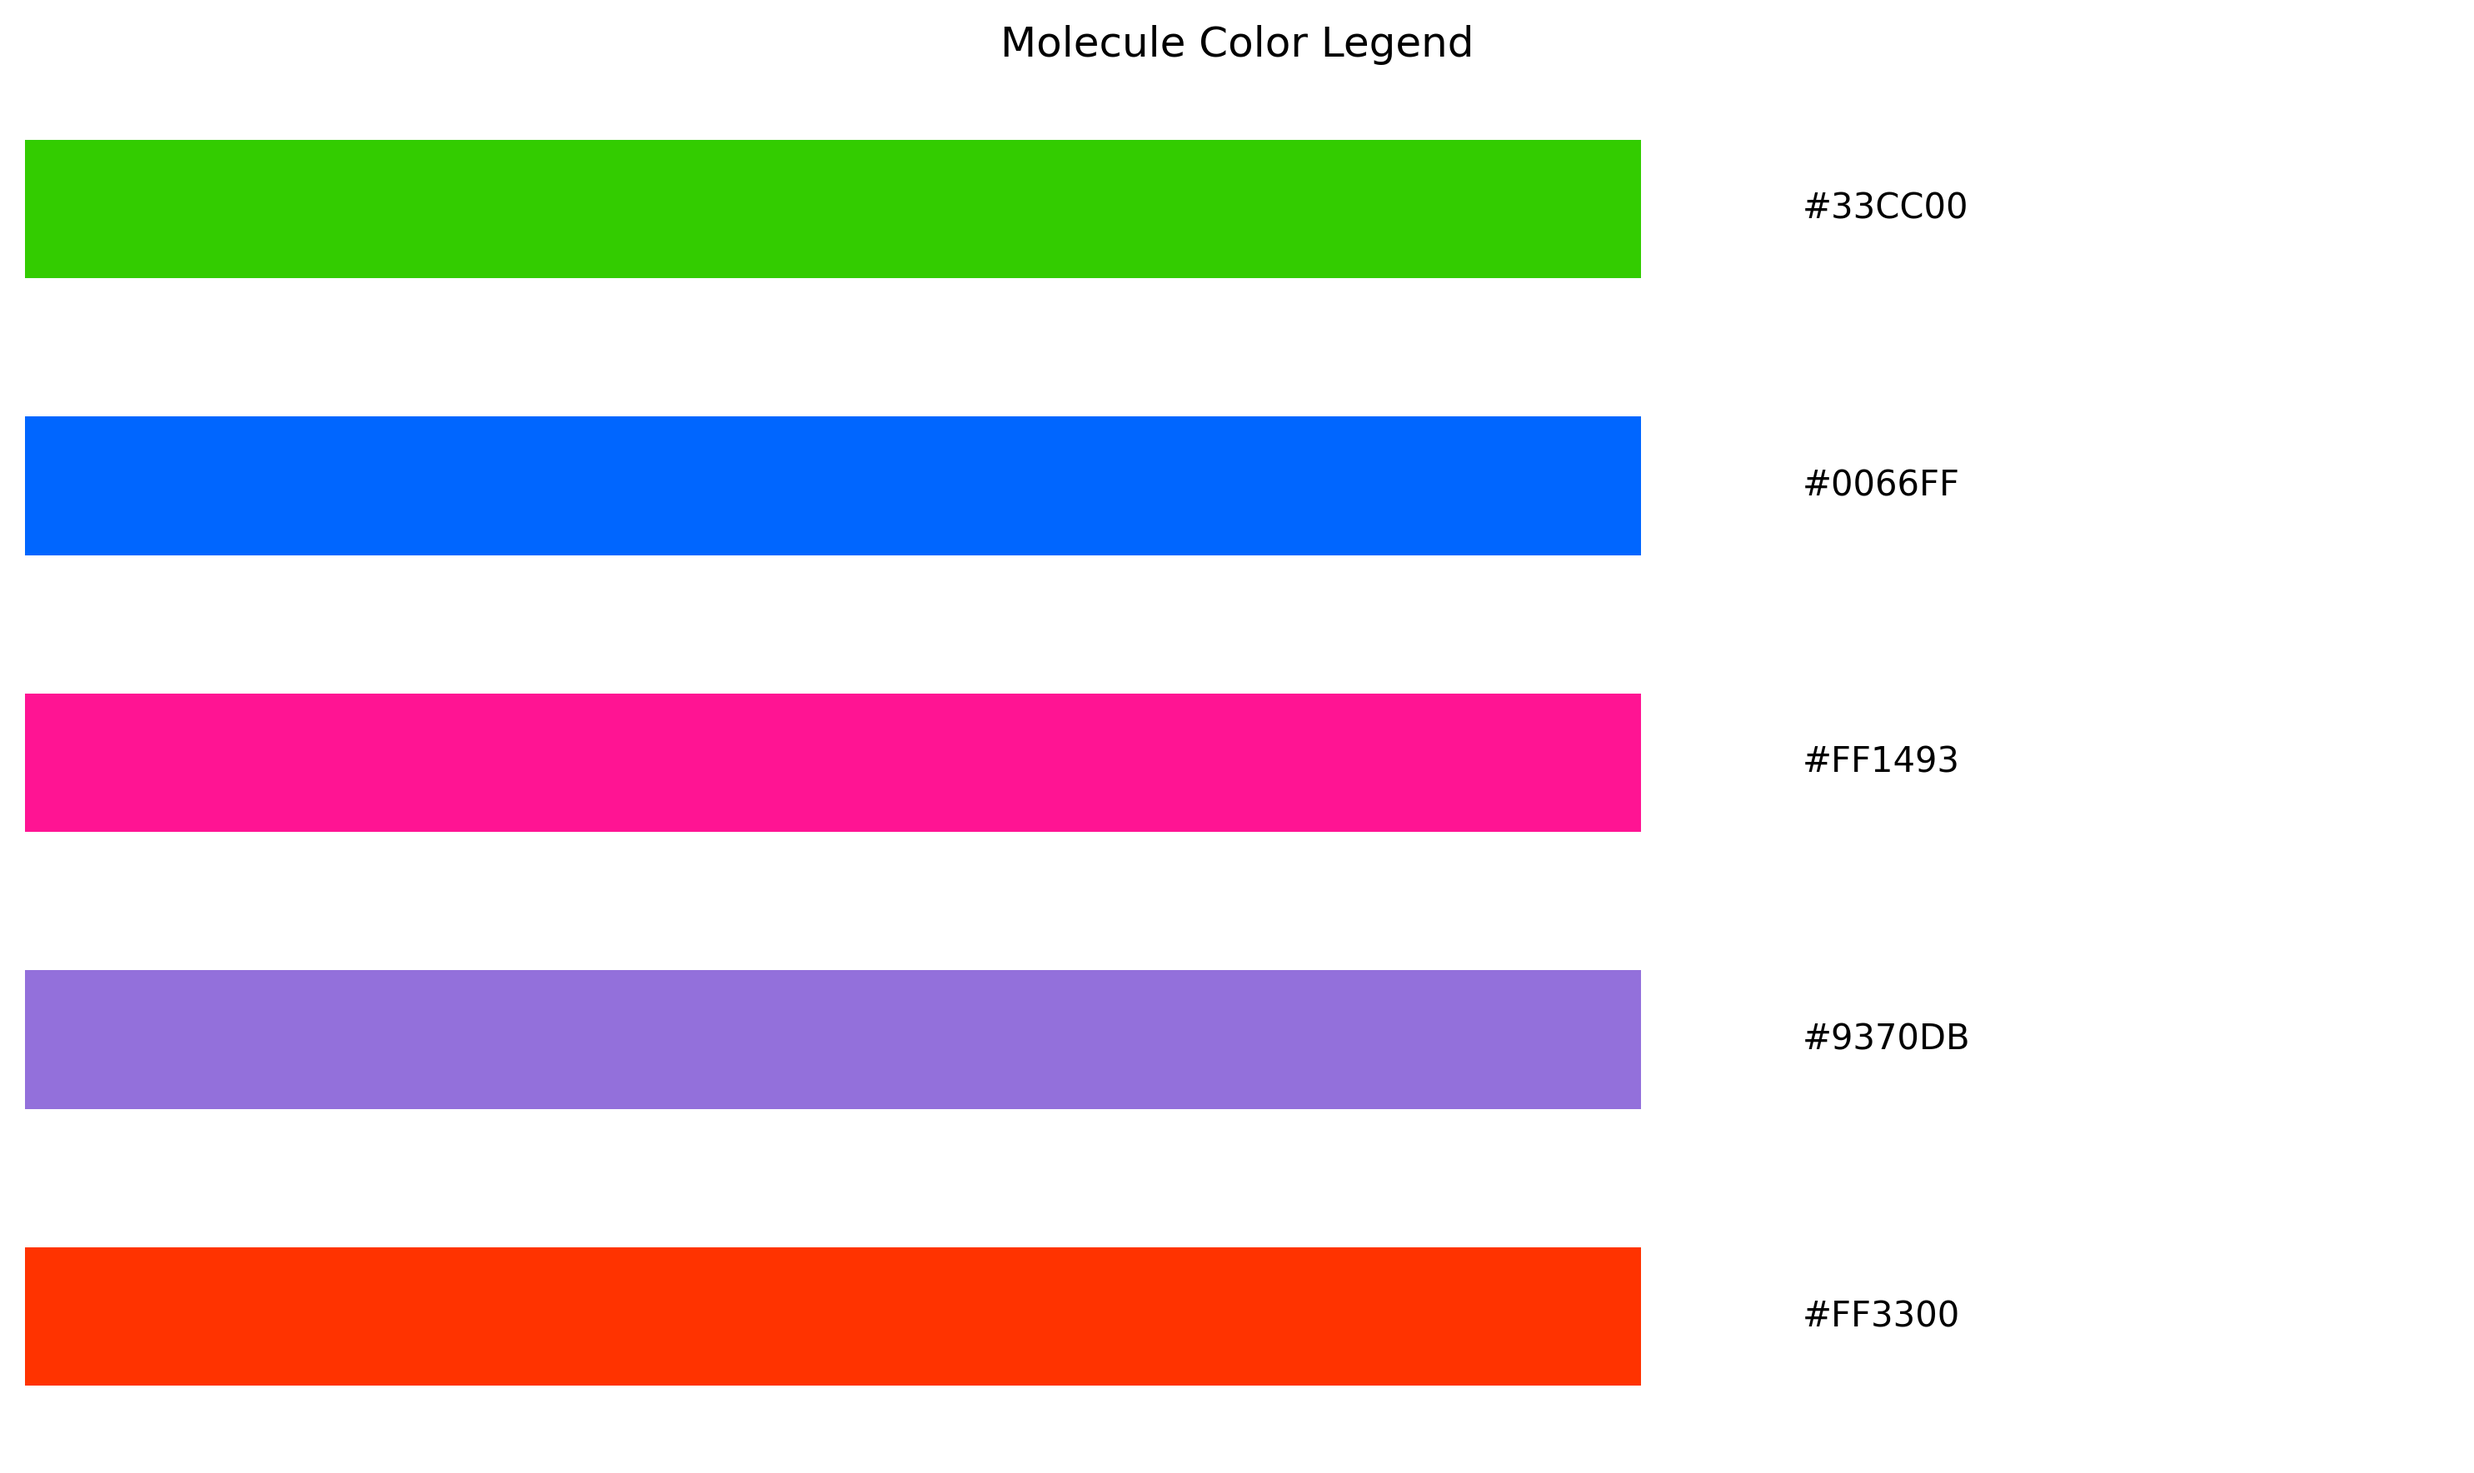
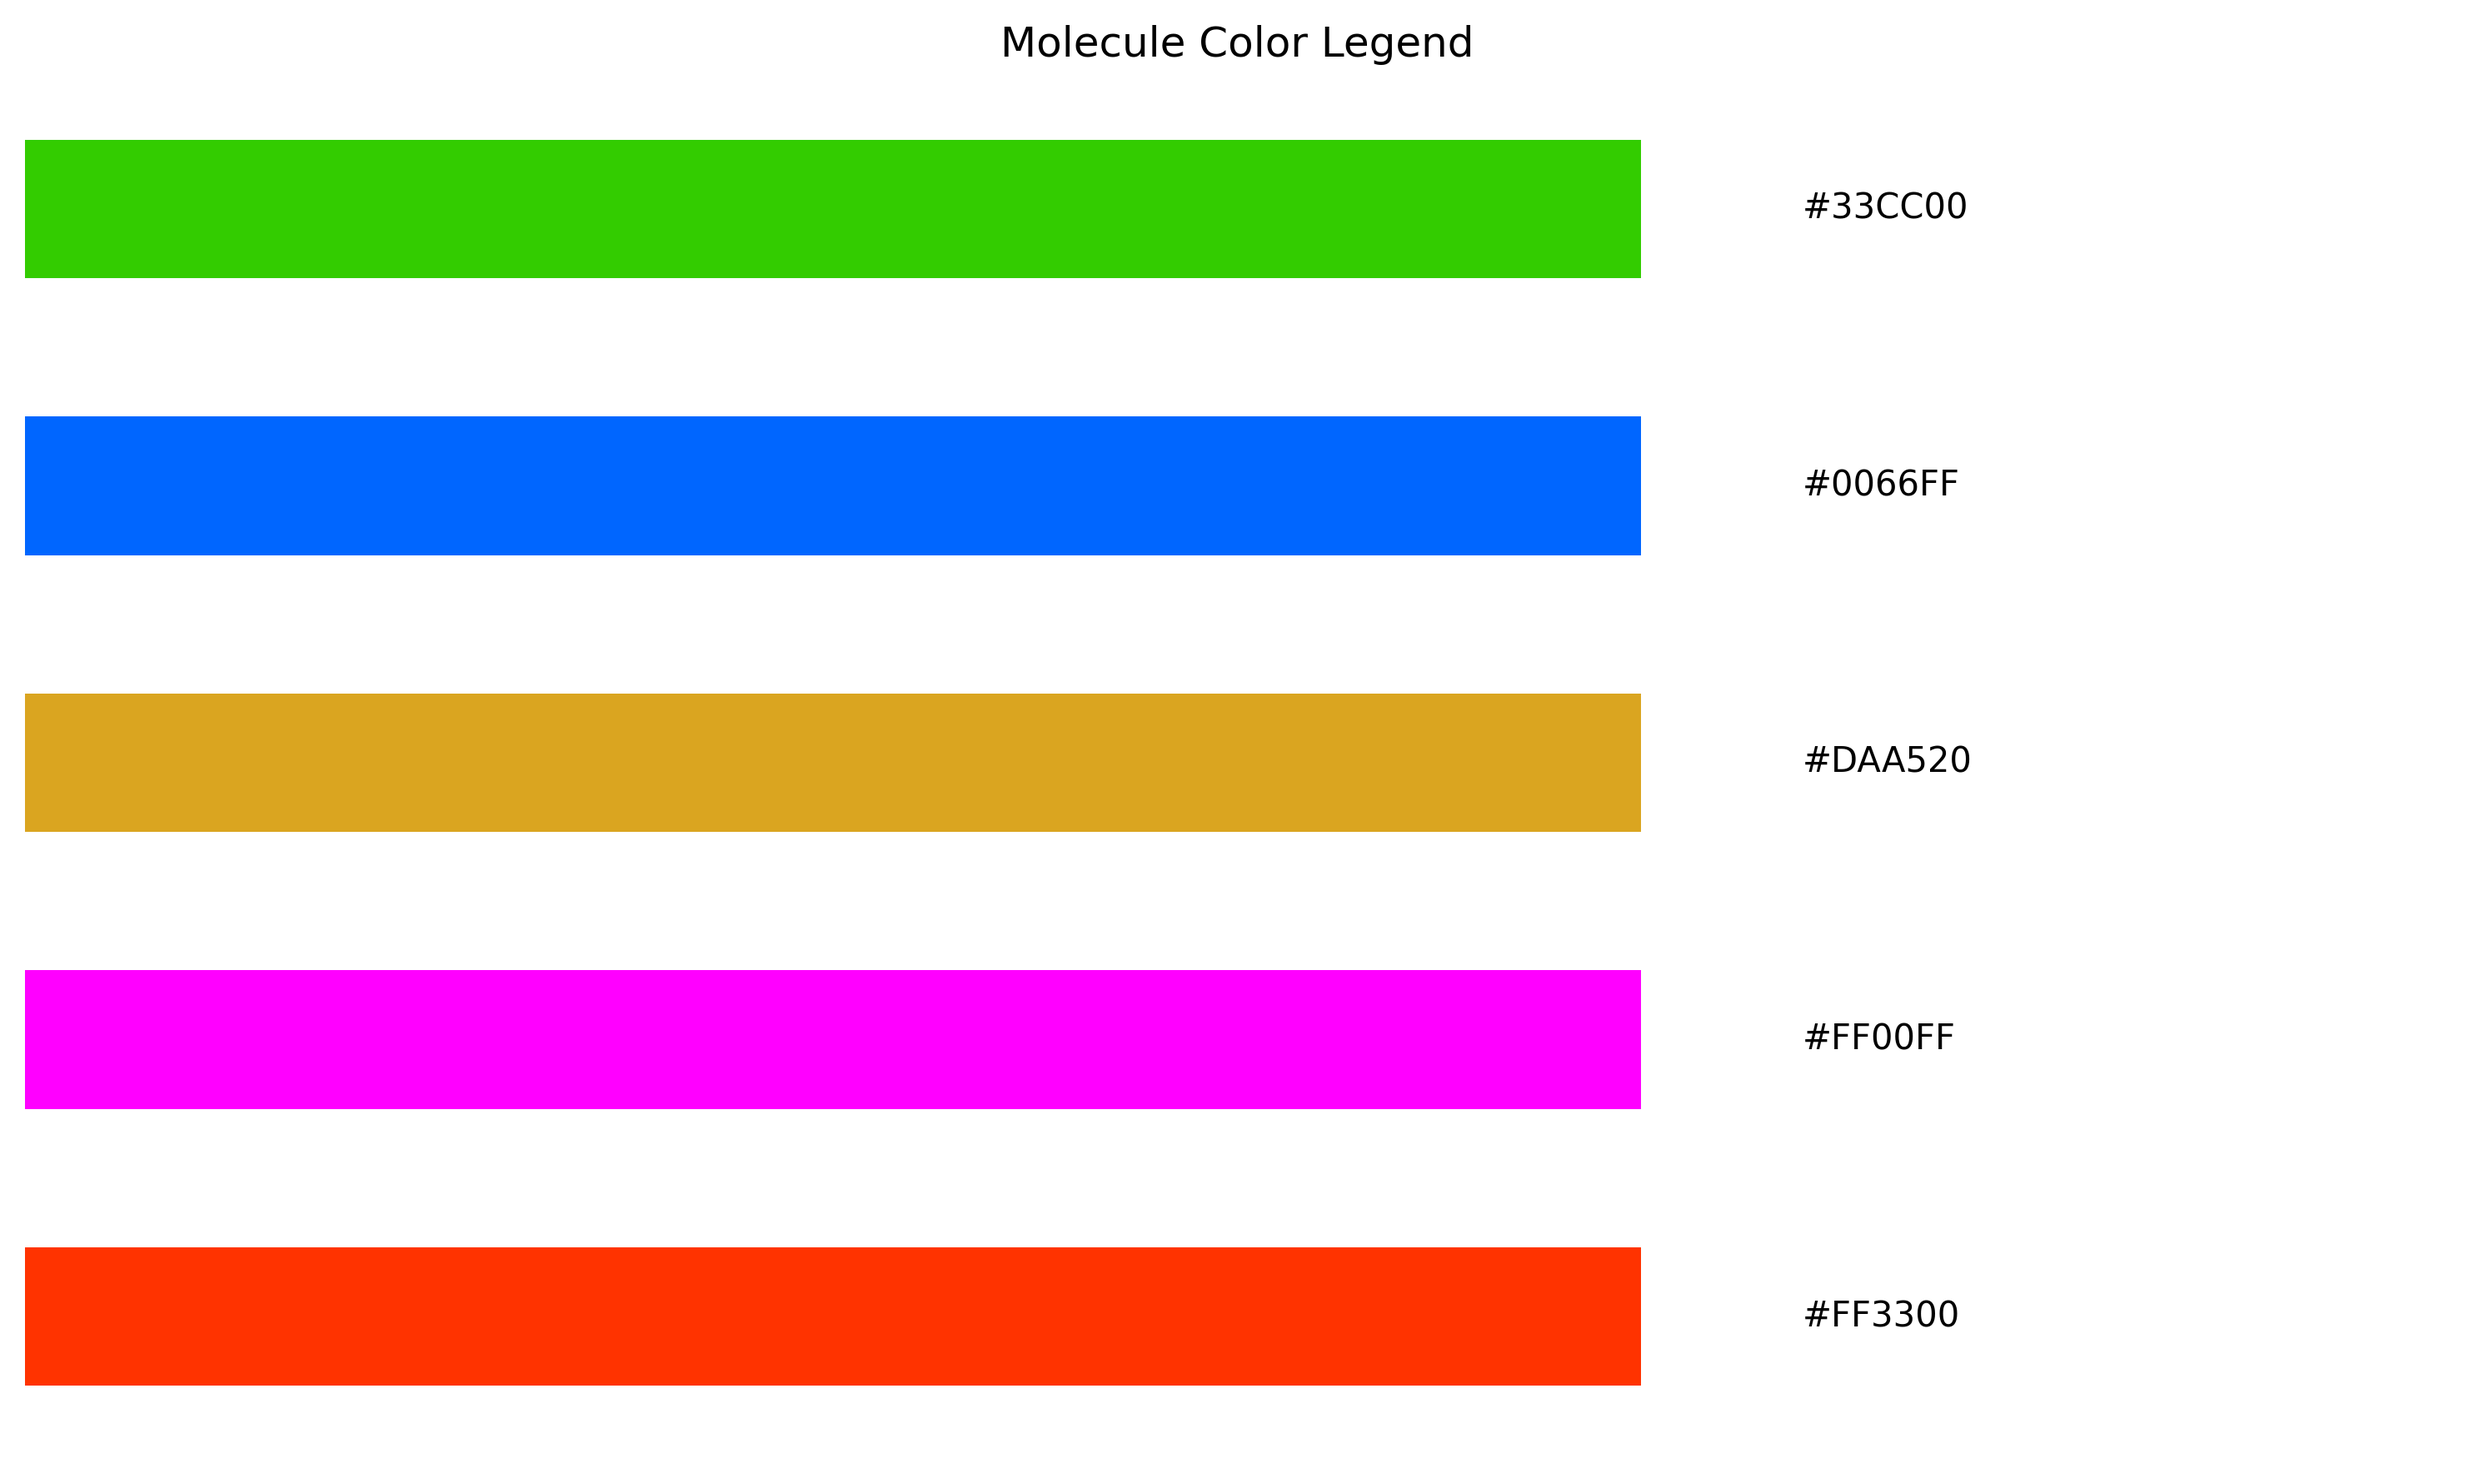
Updated colors

diff --git a/hsi_infer.py b/hsi_infer.py
@@ -46,18 +46,18 @@ class HSIPredictor:
 
         self.bg_thresh = 0.9
         self.colors = {
-            "d7-glucose": "#9370DB",  # Medium purple
+            "d7-glucose": "#FF00FF",  # Magenta
             "d2-fructose": "#FF3300",  # Bright red-orange
-            "d-tyrosine": "#FF69B4",  # Hot pink
+            "d-tyrosine": "#DAA520",  # Goldenrod
             "d-methionine": "#0066FF",  # Bright royal blue
             "d-leucine": "#33CC00",  # Bright green
             "background": "#808080",  # Gray
         }
 
         self.color_alpha = {
-            "d7-glucose": 0.6,
+            "d7-glucose": 0.5,
             "d2-fructose": 1.0,
-            "d-tyrosine": 0.6,
+            "d-tyrosine": 0.8,
             "d-methionine": 1.0,
             "d-leucine": 1.0,
             "background": 1.0,
@@ -429,13 +429,10 @@ def main():
         "--library_path", type=str, default="Raman_dataset/library.csv", help="Path to library CSV"
     )
     parser.add_argument(
-        "--image_path", type=str, default="HSI_data/1-Plin1_FB.tif", help="Path to HSI image stack"
+        "--image_path", type=str, default="HSI_data/1-Wt_FB.tif", help="Path to HSI image stack"
     )
     parser.add_argument(
-        "--output_dir",
-        type=str,
-        default="predicted_results/hsi_plin1_with_bg",
-        help="Directory to save results",
+        "--output_dir", type=str, default="predicted_results/hsi_wt_with_bg", help="Directory to save results"
     )
     parser.add_argument(
         "--target",
